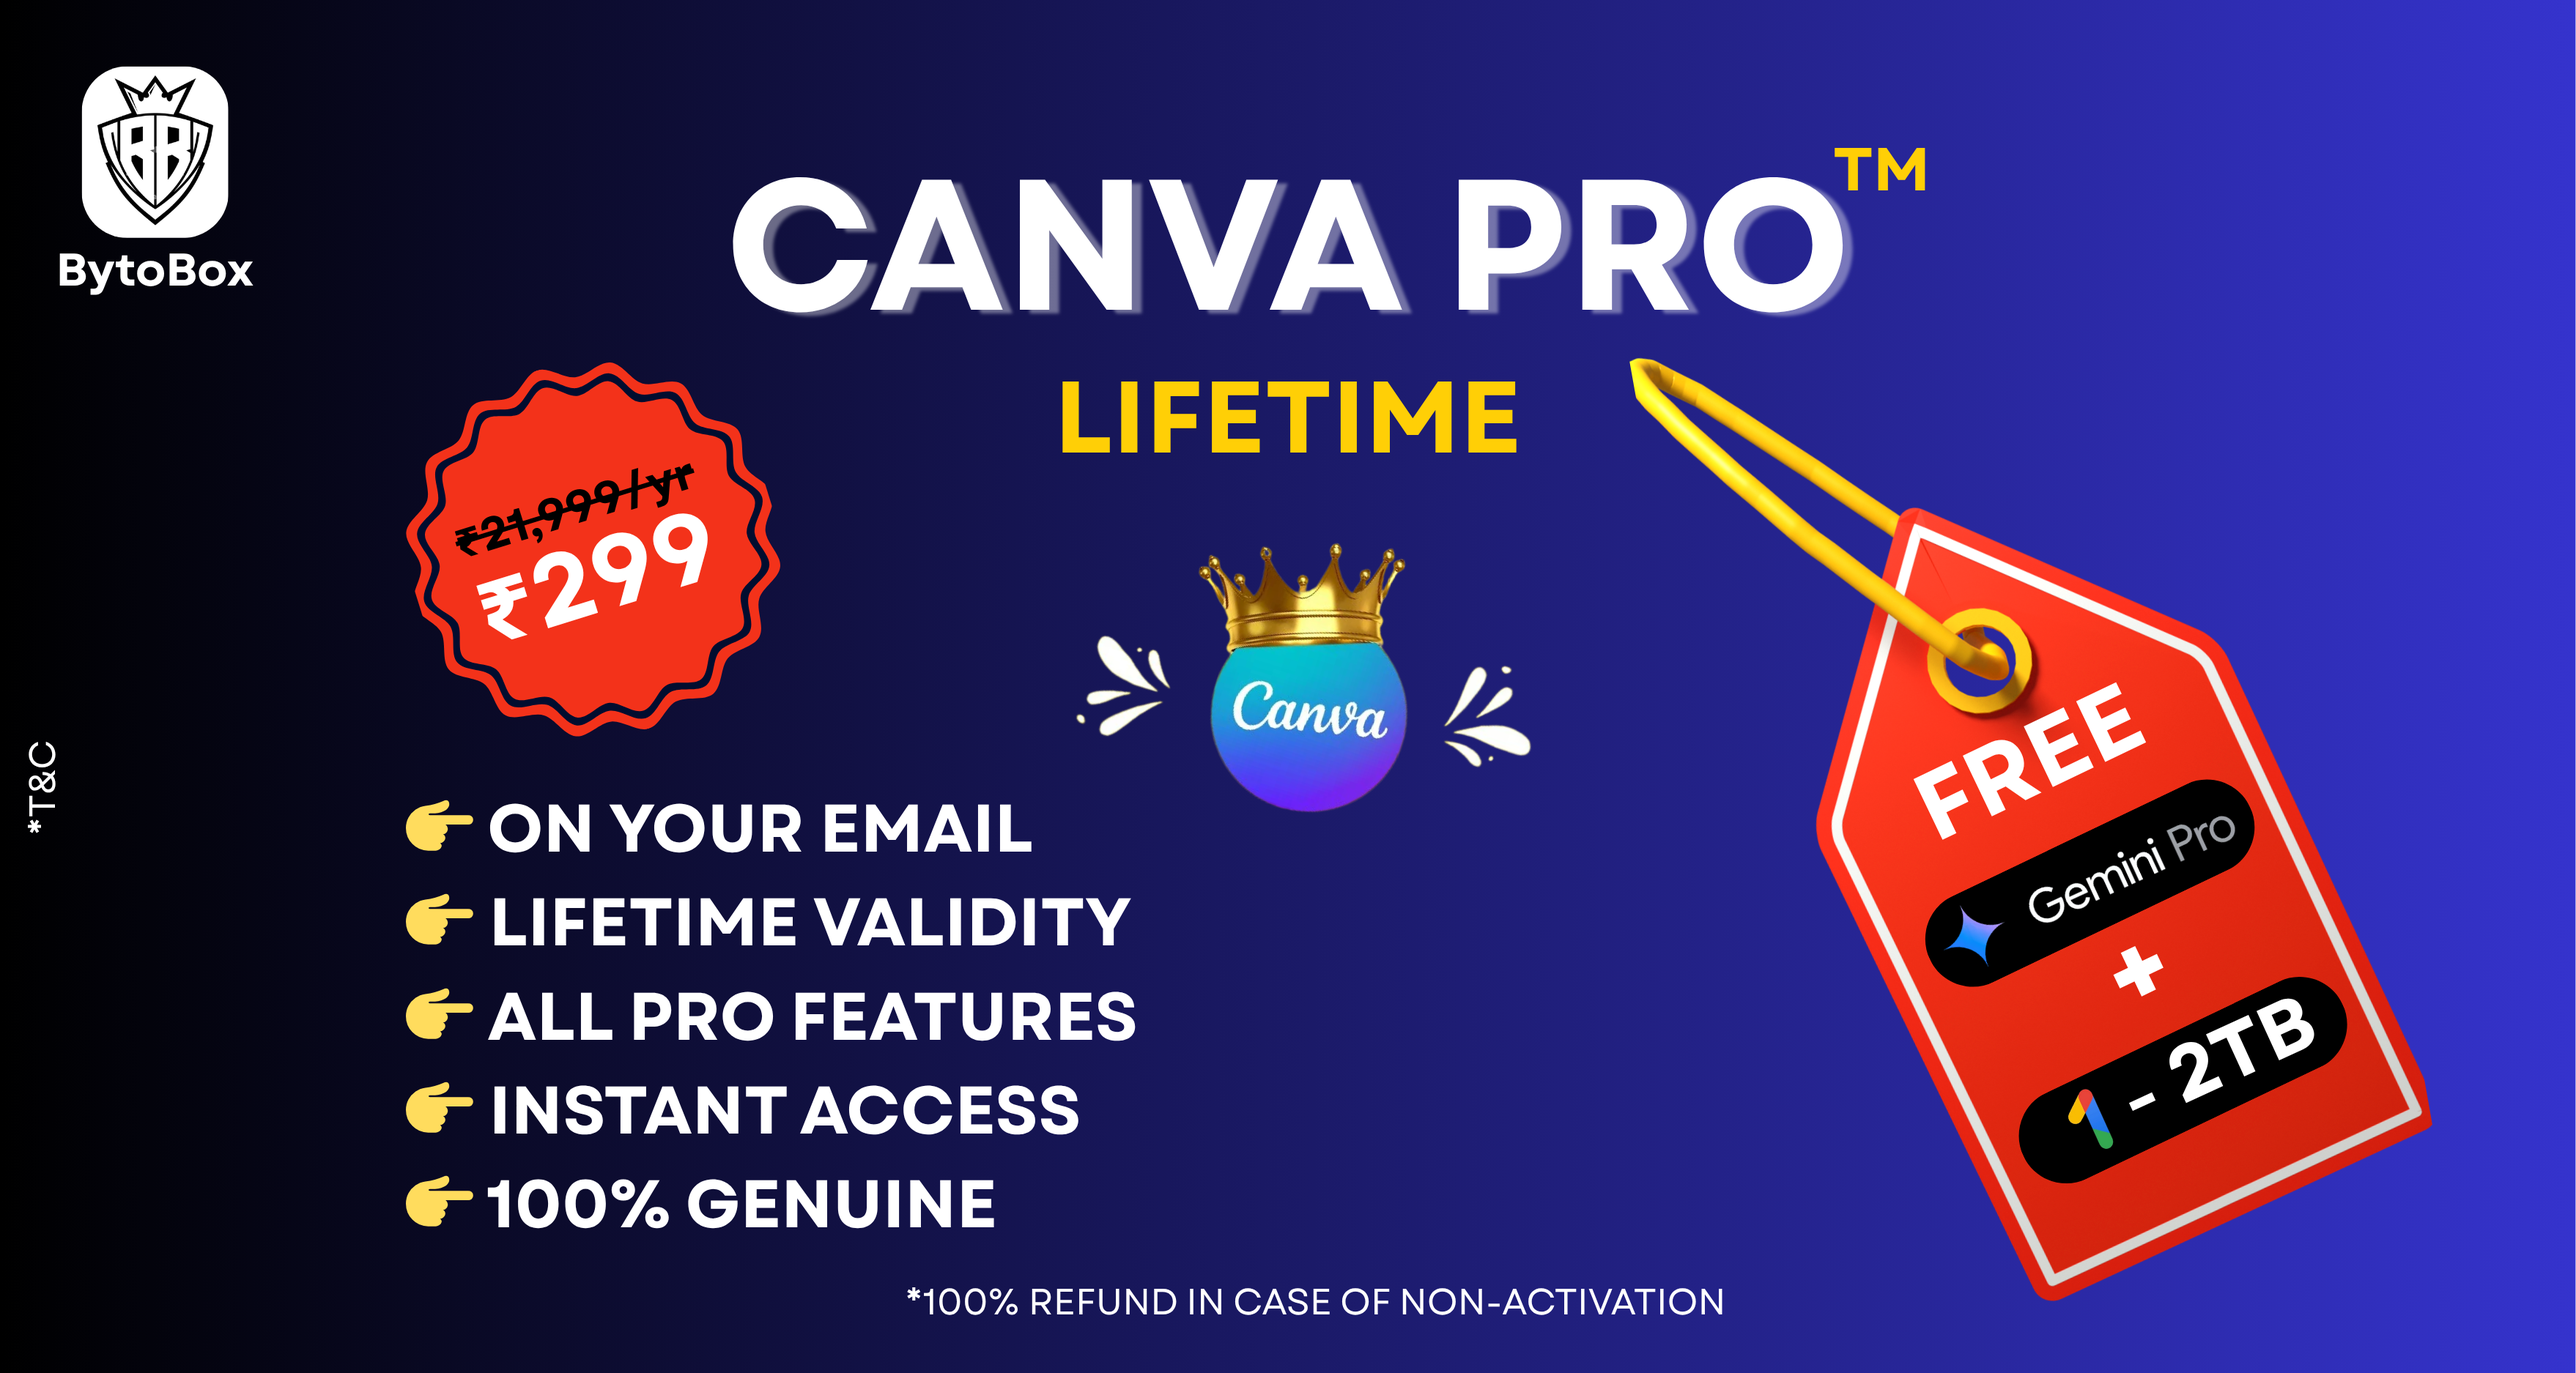
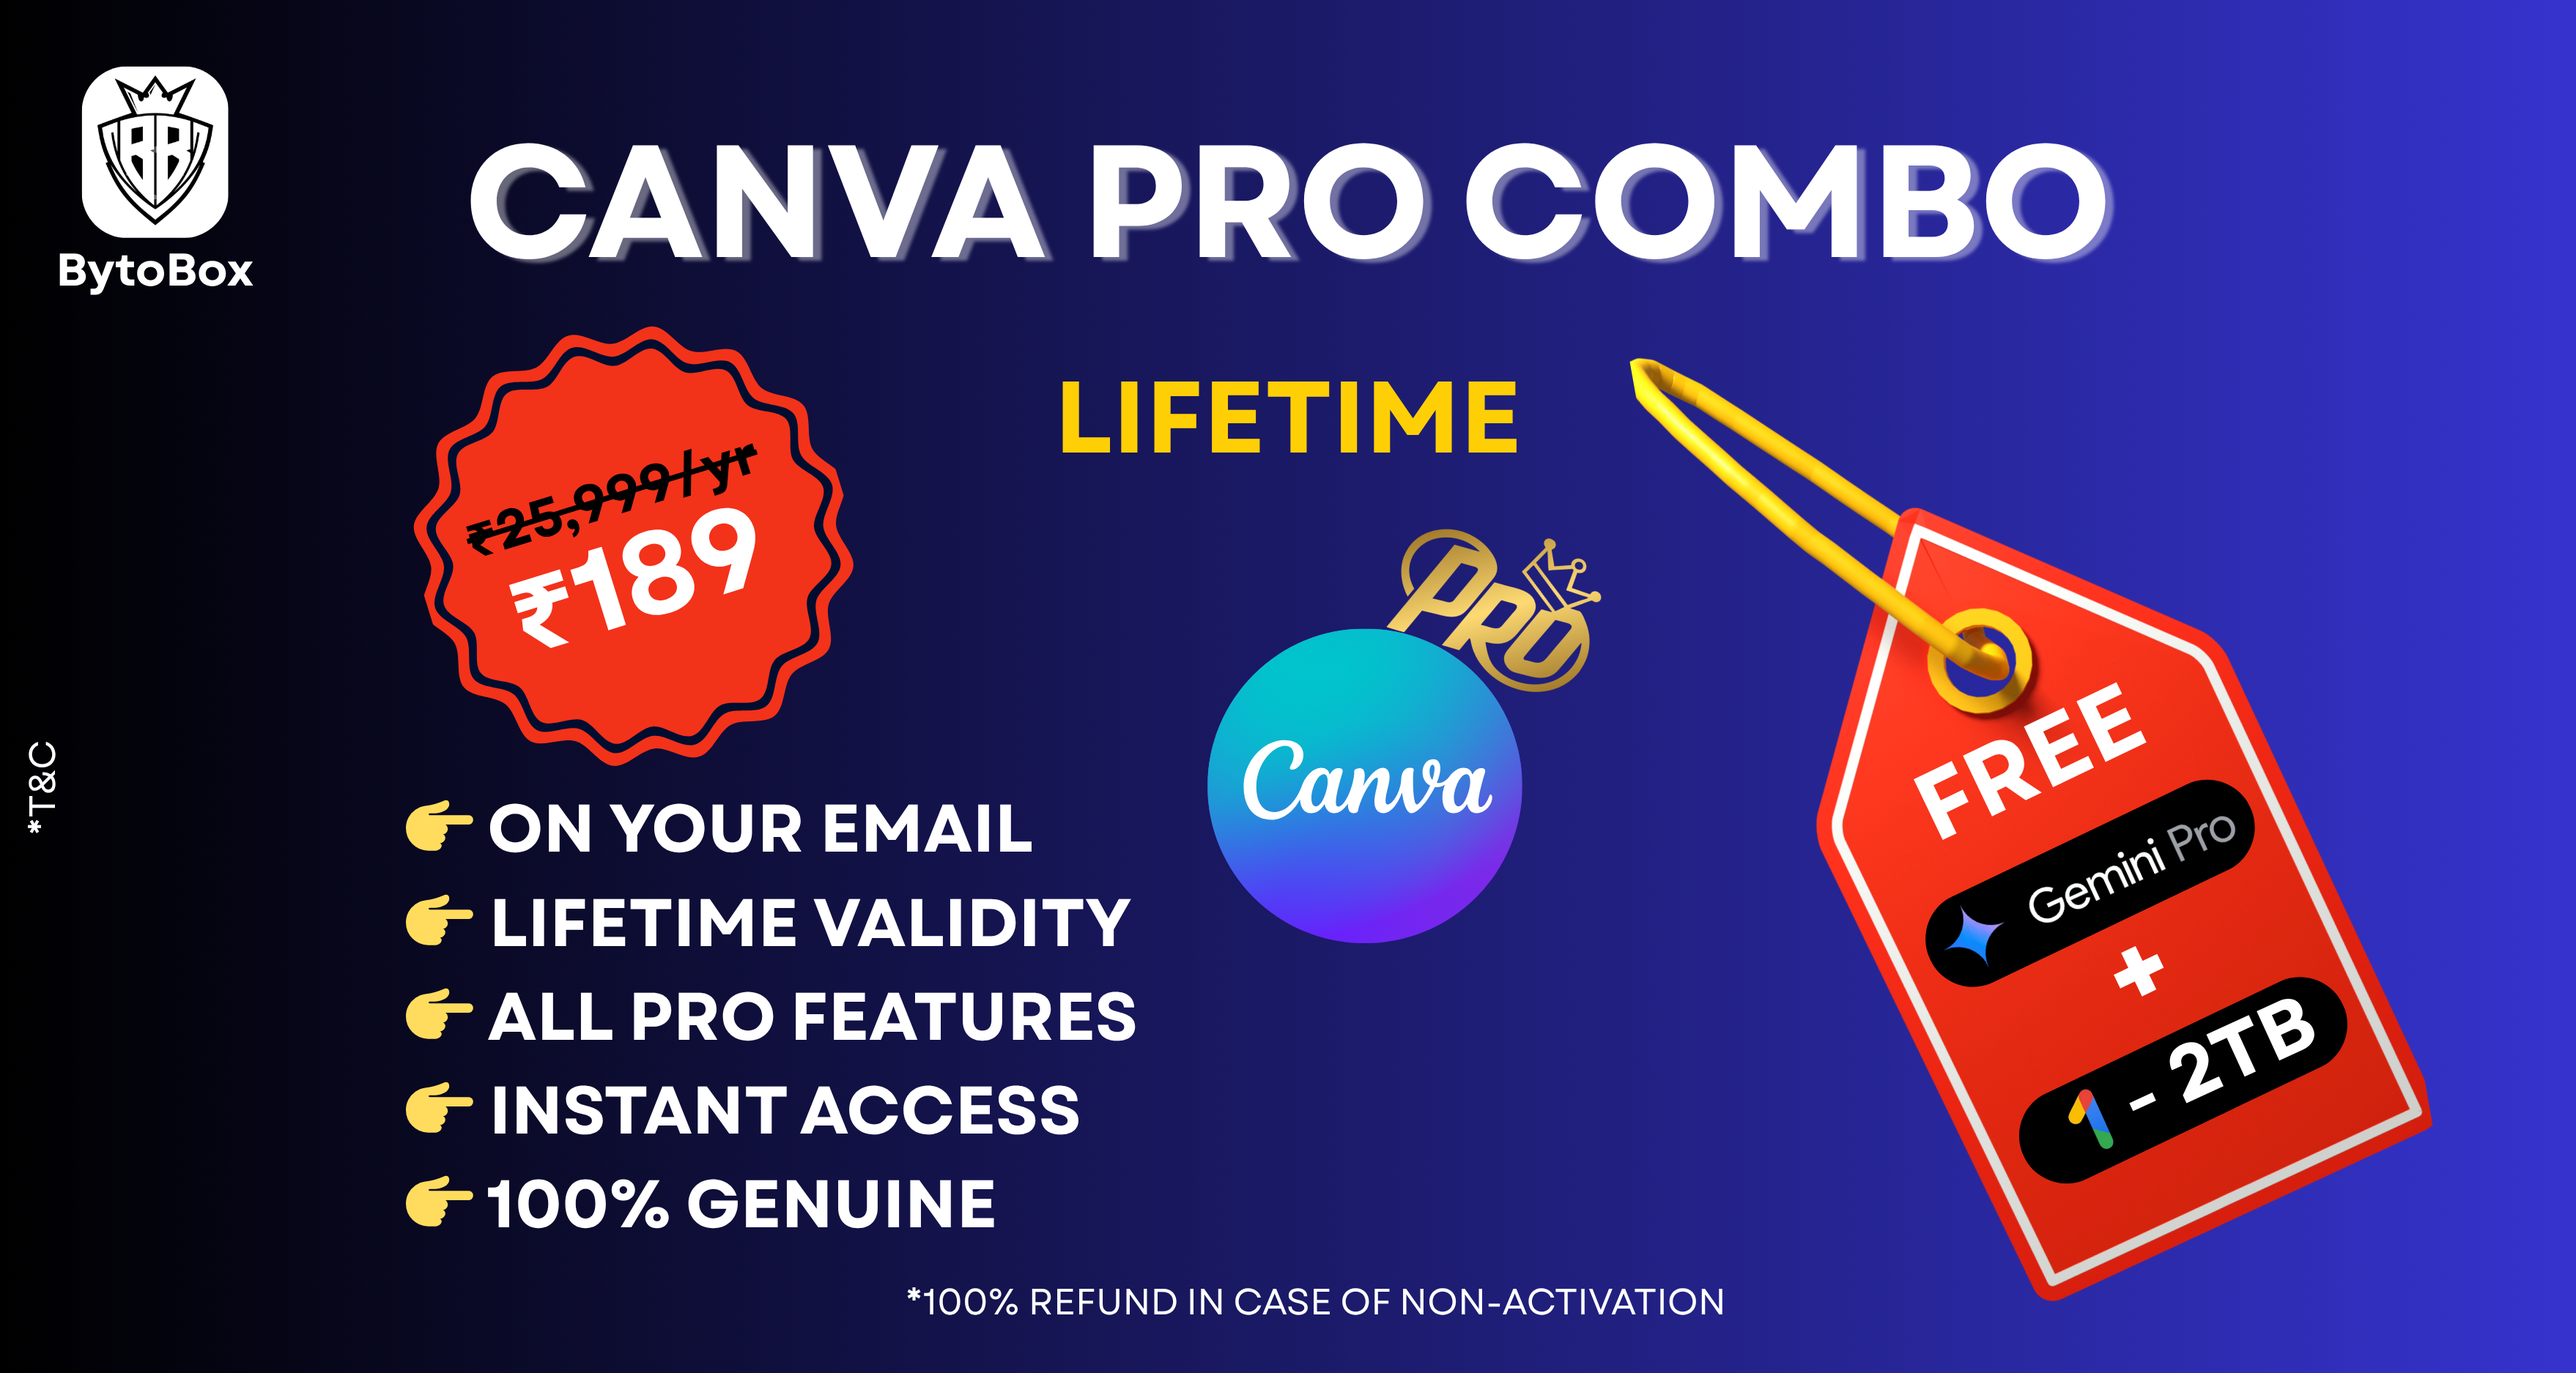
images added of new offers

Changed region(s): [[0.155, 0.0928, 0.837, 0.5568], [0.403, 0.3712, 0.62, 0.7115]]

diff --git a/index.html b/index.html
@@ -92,7 +92,7 @@
 <!-- Hero Section -->
 <section class="hero">
     <div class="container">
-        <h1 class="display-4 fw-bold" style="color: white;">🔥 Canva Pro Lifetime + Gemini Pro + Google 2TB storage – Only ₹299</h1>
+        <h1 class="display-4 fw-bold" style="color: white;">🔥 Canva Pro Lifetime + Gemini Pro + Google 2TB storage – Only ₹189</h1>
         <p class="lead" style="color: white;">Offer Valid till 30 July – Get Instant Access + Pay After Activation!</p>
         <button class="btn btn-deal" onclick="redirectToWhatsApp()">Book Now on WhatsApp</button>
     </div>
@@ -110,7 +110,7 @@
     <div class="col-md-6 order-2 order-md-1 text-white">
       <h1 class="display-5 fw-bold lh-1 mb-3">CANVA PRO <sup>™</sup> LIFETIME</h1>
       <p class="lead">
-        🔥 Offer Price: <strong style="font-size: 1.5rem; color: #ff5252;">₹299</strong><br>
+        🔥 Offer Price: <strong style="font-size: 1.5rem; color: #ff5252;">₹189</strong><br>
       </p>
       <ul style="list-style: none; padding-left: 0; font-size: 1.1rem;">
         <li>✔ On Your Email</li>
@@ -154,19 +154,11 @@
     </div>
 
     <div class="carousel-item">
-      <img src="Canva Pro.png" class="img-fluid mx-auto d-block rounded" alt="Canva EDU Bundle Offer" style="max-width: 90%; height: auto;">
+      <img src="2.png" class="img-fluid mx-auto d-block rounded" alt="Canva EDU Bundle Offer" style="max-width: 90%; height: auto;">
     </div>
 
     <div class="carousel-item">
-      <img src="Canva Pro.png" class="img-fluid mx-auto d-block rounded" alt="Canva EDU Bundle Offer" style="max-width: 90%; height: auto;">
-    </div>
-
-    <div class="carousel-item">
-      <img src="Canva Pro.png" class="img-fluid mx-auto d-block rounded" alt="Canva EDU Bundle Offer" style="max-width: 90%; height: auto;">
-    </div>
-
-    <div class="carousel-item">
-      <img src="Canva Pro.png" class="img-fluid mx-auto d-block rounded" alt="Canva EDU Bundle Offer" style="max-width: 90%; height: auto;">
+      <img src="3.png" class="img-fluid mx-auto d-block rounded" alt="Canva EDU Bundle Offer" style="max-width: 90%; height: auto;">
     </div>
 
   </div>
@@ -199,7 +191,7 @@
   display: inline-block;
   color: #ff3c00;
 ">
-  ₹99
+  ₹99 (Lifetime)
 </p>
 <style>
 @keyframes wiggleFlicker {
@@ -225,14 +217,14 @@
       <div class="feature-icon d-inline-flex align-items-center justify-content-center mb-3">
         <img src="https://play-lh.googleusercontent.com/B5AENJqFOd91t5cWZLTQbVUm7iDWzYVM1n0Pe2RI_46dhlWMtVAUBioUvy4YMXWdwA" alt="Deal Icon 2" style="width: 50px; height: 50px; border-radius: 8px;">
       </div>
-      <h3 class="fs-2 text-white">Google 1 (2TB) </h3>
+      <h3 class="fs-2 text-white">Google 1 (2TB) + Gemini </h3>
 <p style="
   animation: wiggleFlicker 1.2s infinite;
   font-weight: bold;
   display: inline-block;
   color: #ff3c00;
 ">
-  ₹149
+  ₹149 (1 Year)
 </p>
 <style>
 @keyframes wiggleFlicker {
@@ -256,16 +248,16 @@
     <!-- Card 3 -->
     <div class="feature col">
       <div class="feature-icon d-inline-flex align-items-center justify-content-center mb-3">
-        <img src="https://isolatedstudyin.s3.ap-south-1.amazonaws.com/a3d040d13909ecc3cfacd0a9c01b3963.jpg" alt="Deal Icon 3" style="width: 50px; height: 50px; border-radius: 8px;">
+        <img src="https://img.freepik.com/premium-psd/linkedin-logo-application-3d-render-illustration-isolated_155582-5629.jpg" alt="Deal Icon 3" style="width: 50px; height: 50px; border-radius: 8px;">
       </div>
-      <h3 class="fs-2 text-white">Gemini Pro (Veo3)</h3>
+      <h3 class="fs-2 text-white">LinkedIn Premium Nav.</h3>
 <p style="
   animation: wiggleFlicker 1.2s infinite;
   font-weight: bold;
   display: inline-block;
   color: #ff3c00;
 ">
-  ₹129
+  ₹129 (2 Months)
 </p>
 <style>
 @keyframes wiggleFlicker {
@@ -301,7 +293,7 @@
       <div>
         <h2 class="text-white">Canva Pro</h2>
         <p class="text-white">Access unlimited templates and design tools for all your creative needs.</p>
-        <p class="text-white">₹149/-</p>
+        <p class="text-white">₹99/-</p>
         <a href="#" class="btn btn-primary" onclick="redirectToWhatsApp()">Book Now</a>
       </div>
     </div>
@@ -311,7 +303,7 @@
       <div>
         <h2 class="text-white">Google One 2TB</h2>
         <p class="text-white">2TB Google One storage for secure backups, large files, sharing, and seamless device sync.</p>
-        <p class="text-white">₹199/-</p>
+        <p class="text-white">₹149/-</p>
         <a href="#" class="btn btn-primary" onclick="redirectToWhatsApp()">Book Now</a>
       </div>
     </div>
